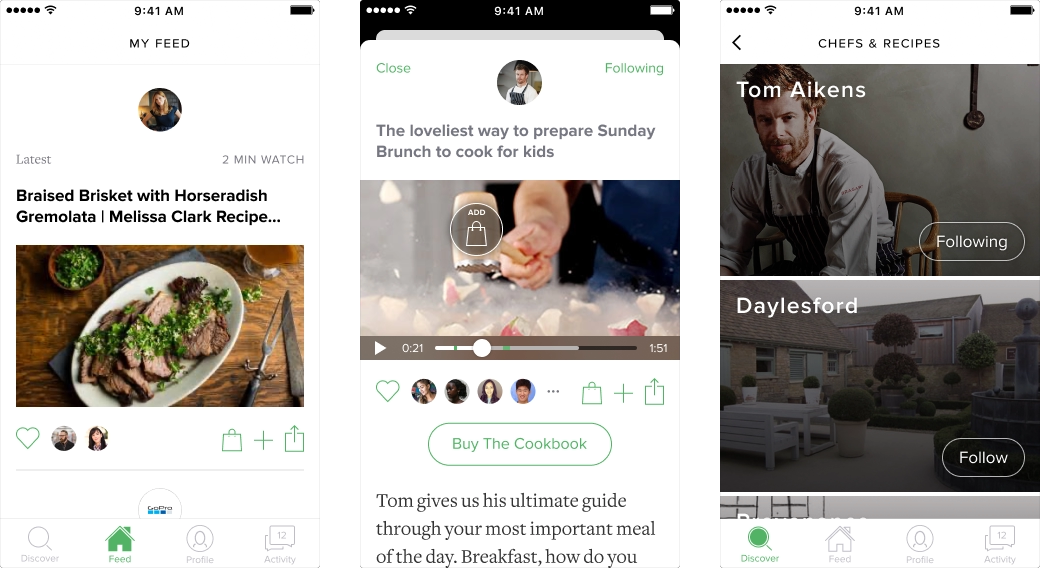
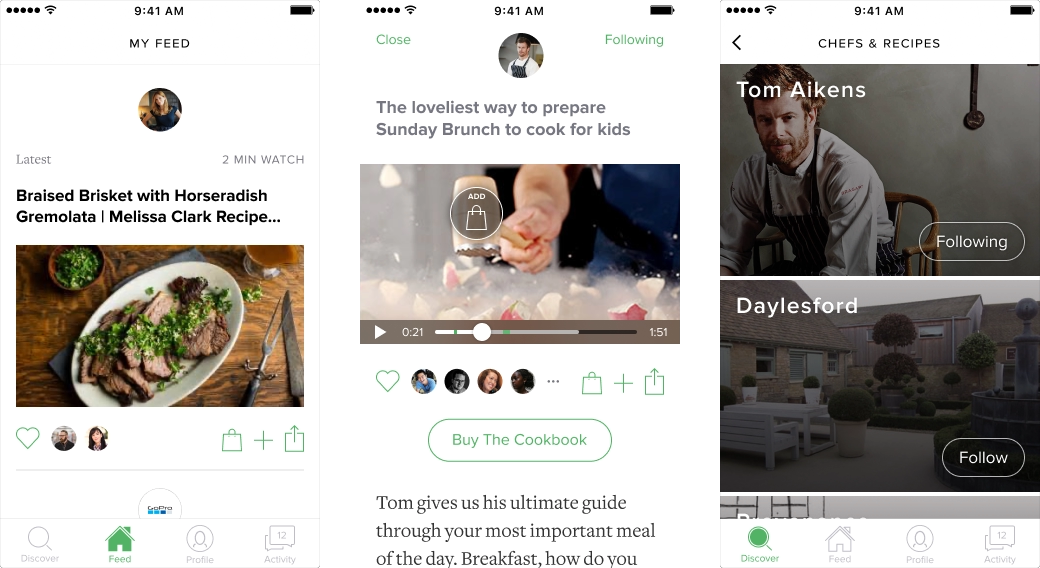
Replace screens for Oncare and Wonder projects

Changed region(s): [[0.3385, 0.0, 0.6769, 0.838], [0.3385, 0.868, 0.6462, 1.0], [0.3692, 0.1197, 0.4, 0.1496]]

diff --git a/_includes/_projects.oncare.html b/_includes/_projects.oncare.html
@@ -1,10 +1,31 @@
 <section class="u--m-bottom--huge">
   <h3 id="oncare" class="heading beta no-spacing">OnCare&nbsp;<a href="#oncare" class="subtitle-link" title="Permalink to this headline">#</a></h3>
   <p class="heading page-subtitle">2016&mdash;2017 with <a href="https://twitter.com/alistairsbrain" title="Alistair Cohen's Twitter profile">Alistair Cohen</a></p>
-  <figure class="gallery">
-    <img src="assets/img/content/oncare-showcase.png" srcset="assets/img/content/oncare-showcase.png 1x,assets/img/content/oncare-showcase@2x.png 2x" alt="Four iPhone 6 devices laid out depicting from right to left, 'my clients' view, a 'client profile' view, a 'checked in' view and 'all reports' view." loading="auto">
+  
+  <figure class="gallery u--m-bottom--huge">
+    <picture>
+      <source
+        type="image/webp"
+        srcset="assets/img/content/oncare-mobile.webp 1x,
+                assets/img/content/oncare-mobile@2x.webp 2x">
+      <source
+        type="image/png"
+        srcset="assets/img/content/oncare-mobile.png 1x,
+                assets/img/content/oncare-mobile@2x.png 2x">
+      <img
+        src="assets/img/content/oncare-mobile.png"
+        srcset="assets/img/content/oncare-mobile.png 1x,
+                assets/img/content/oncare-mobile@2x.png 2x"
+        alt="Three screens depicting from left to right: client profile view, a checked in report view and all reports list view."
+        title="The home feed, a video player and discover view."
+        loading="auto"
+        class="u--m-bottom"
+        width="1040"
+        height="568">
+    </picture>
     <figcaption class="text-col">A selection of core screens from the OnCare iOS app.</figcaption>
   </figure>
+  
   <p class="text-col">
     <a href="http://www.weareoncare.com" title="We save care agencies time and money by replacing paper records with a simple app, help to boost CQC ratings, and keep families closer to their loved ones' care.">OnCare</a> is a <abbr title="Business-to-Business">B2B</abbr> <abbr title="Software as a Service">SaaS</abbr> business from the <a href="https://foundersfactory.com/portfolio/">Founders Factory incubator</a>. OnCare provides tools that saves costs to Care Agencies and make caring for the elderly easier. The business has three apps which I helped prototype and design. This includes a React Native app for both iOS and Android and a responsive web app. I worked on product strategy, prototypes and informing the user experience, as well as the creative direction.
   </p>
